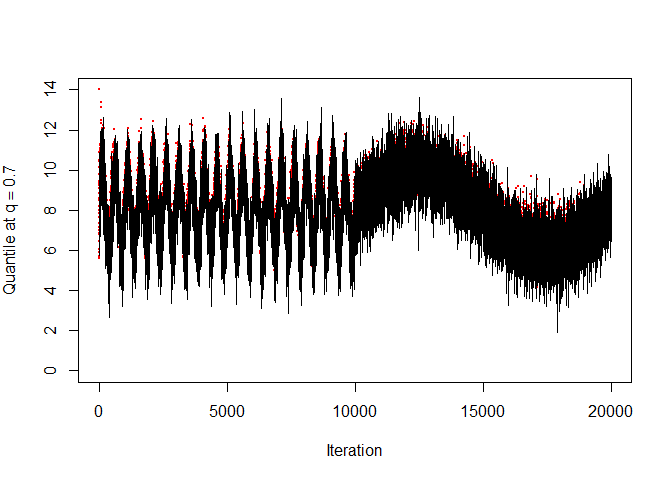
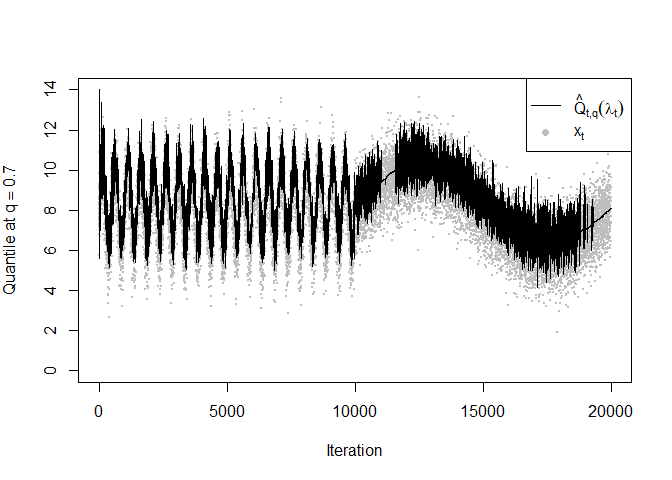
new Rmd preview

diff --git a/3rd_session.md b/3rd_session.md
@@ -1,4 +1,4 @@
-Replication of Hammer et al. (2023)
+Online POT Model
 ================
 David Baptista
 
@@ -16,17 +16,11 @@ include = FALSE runs the chunk and hides both code and output.
 
 <!-- comment -->
 
-The purpose of this document is to replicate both synthetic experiments
-from Hammer et al. ([2023](#ref-rue2023oracle)).
-
-``` r
-library (dplyr)
-```
-
-``` r
-rm (list = ls())
-set.seed (1234)
-```
+The main purpose of this document is to replicate both synthetic
+experiments presented in Hammer et al. ([2023](#ref-rue2023oracle)). The
+second part aims to use the findings from these experiments to
+investigate how the methodology can be adapted for the continuous
+tracking of extreme quantiles.
 
 # Support Functions
 
@@ -47,17 +41,17 @@ D2 <- function (q_prob, q_hat) {
     return((1 - q_prob) * q_hat)
 }
 
-# Incremental Algorithm (returns next iteration quantile estimates for each lambda_vec value)
-DUMIQE <- function (t, x_obs, q_hat_t, lambda_vec, q_prob) {
-    if (t == 0) { # Initialization step 
-    Q_min <- 14 # I'm choosing a different value until it converges...
-    return (rep (Q_min, times = length(lambda_vec))) # L was still not defined
+# Incremental Algorithm (returns quantile estimates at iteration t for each lambda_vec value)
+DUMIQE <- function (t, x_obs, q_hat_previous, lambda_vec, q_prob) {
+    if (t == 0) { # Initialization step (Q_0)
+        Q_min <- 14 # chosen to be "outside" the data stream distribution
+        return(rep (Q_min, times = length(lambda_vec))) # L was still not defined
     } else {
         return(ifelse (
-            x_obs[t + 1] >= q_hat_t,                    # Logical vector
-            # RECALL: between 2 vectors * performs element-wise multiplication 
-            q_hat_t + lambda_vec * D1(q_prob, q_hat_t), # If TRUE
-            q_hat_t - lambda_vec * D2(q_prob, q_hat_t)  # If FALSE
+            x_obs[t + 1] >= q_hat_previous,                           # Logical vector
+            # RECALL: between 2 vectors * and + performs element-wise multiplication and addition, respectively
+            q_hat_previous + lambda_vec * D1(q_prob, q_hat_previous), # If TRUE
+            q_hat_previous - lambda_vec * D2(q_prob, q_hat_previous)  # If FALSE
         )) 
     }
 }
@@ -66,11 +60,11 @@ DUMIQE <- function (t, x_obs, q_hat_t, lambda_vec, q_prob) {
 Quantile Loss function on iteration t
 
 ``` r
-QL <- function (t, x_obs, q_hat_t, q_prob) {
+QL <- function (x_obs_t, q_hat_t, q_prob) {
     return(ifelse(
-        x_obs[t + 1] >= q_hat_t,               # Logical vector
-        (1-q_prob) * (x_obs[t + 1] - q_hat_t), # If TRUE
-        q_prob * (q_hat_t - x_obs[t + 1])      # If FALSE
+        x_obs_t >= q_hat_t,                 # Logical vector
+        (1 - q_prob) * (x_obs_t - q_hat_t), # If TRUE
+        q_prob * (q_hat_t - x_obs_t)        # If FALSE
     ))
 }
 ```
@@ -97,8 +91,7 @@ iter <- 0:(2*T - 1)
 miu    <- 8
 b      <- 2
 sigma  <- 1
-t      <- iter
-mean_t <- miu + b * sin(2 * pi * t / tau_n(t))
+mean_t <- miu + b * sin(2 * pi * iter / tau_n(iter))
 normal_stream <- rnorm(
     n = 2*T,
     mean = mean_t,
@@ -116,7 +109,7 @@ q_fig2 <- 0.7
 possible_lambdas <- exp(seq (from = -7, to = 0, by = 0.05))
 L <- length(possible_lambdas) # number of estimates per iteration 
 
-gamma_Oracle <- 1 - (0.01)^(1/1000) # 0.005 
+gamma_Oracle <- 1 - (0.01)^(1/1000) # 0.005
 ```
 
 ``` r
@@ -124,9 +117,10 @@ q_hat   <- matrix(0, nrow = 2*T, ncol = L)
 QL_hat  <- matrix(0, nrow = 2*T, ncol = L)
 EQL_hat <- matrix(0, nrow = 2*T, ncol = L)
 
-oracle_lambdas         <- numeric(2*T)
-oracle_quantiles       <- numeric(2*T)
-oracle_QL              <- numeric(2*T)
+oracle_lambdas   <- numeric(2*T)
+oracle_quantiles <- numeric(2*T) # Oracle Quantile Estimates
+oracle_QL        <- numeric(2*T)
+oracle_EQL       <- numeric(2*T)
 
 for (t in iter) {
     # Quantiles estimates on iteration t for each value in possible_lambdas 
@@ -138,7 +132,7 @@ for (t in iter) {
         q_fig2
     )
 
-    QL_hat[t + 1, ] <- QL(t, normal_stream, q_hat[t + 1, ], q_fig2)
+    QL_hat[t + 1, ] <- QL(normal_stream[t + 1], q_hat[t + 1, ], q_fig2)
 
     # Expected Quantile Loss (EQL) function on iteration t. It is based on the exponentially weighted moving average.
     # It was previously defined as a function, but the node stack overflow error was thrown given it was defined recursively (so, e.g., it was evaluating all the previous steps creating very deep stack call)
@@ -154,7 +148,8 @@ for (t in iter) {
     # The Oracle approach stores the lambda value with the minimum estimated EQL
     oracle_lambdas [t + 1]  <- possible_lambdas[index]
     oracle_quantiles[t + 1] <- q_hat[t + 1, index]
-    oracle_QL [t + 1]       <- QL_hat[t + 1, index]
+    oracle_QL[t + 1]        <- QL_hat[t + 1, index]
+    oracle_EQL[t + 1]       <- EQL_hat[t + 1, index]
 }
 ```
 
@@ -162,86 +157,64 @@ for (t in iter) {
 
 Tracking the q = 0.7 quantile using the Oracle approach.
 
-In the upper left panel, we see that quantile loss quickly decreases and
-then stabilizes. The initial value of the quantile tracking algorithm is
-outside the data stream distribution. Therefore, in the initial phase,
-the quantile loss is high and a high value of $\lambda$ (update size) is
-used for the tracking algorithm to quickly get within the data stream
-distribution. When the quantile tracking algorithm is within the data
-stream distribution, a smaller $\lambda$ is optimal and the value of
-$\lambda$ is reduced. The expected quantile loss is reduced accordingly.
-
-Estimated QL in every iteration.
+<!-- 
+In the upper left panel, we see that quantile loss quickly decreases and then stabilizes. The initial value of the quantile tracking algorithm is outside the data stream distribution. Therefore, in the initial phase, the quantile loss is high and a high value of $\lambda$ (update size) is used for the tracking algorithm to quickly get within the data stream distribution. When the quantile tracking algorithm is within the data stream distribution, a smaller $\lambda$ is optimal and the value of $\lambda$ is reduced. The expected quantile loss is reduced accordingly.
+ -->
 
 ``` r
 plot(
     x = iter,
-    y = oracle_QL,
+    y = oracle_EQL, # oracle_EQL, oracle_QL
     type = "l", # Line Plot
-    ylim = c(0,1),
+    ylim = c(0.00,1),
     xlab = "Iteration",
-    ylab = "QL"
+    ylab = "Expected Quantile Loss (EQL)"
 )
 ```
 
-![](3rd_session_files/figure-gfm/Estimated%20QL%20by%20iteration%20graph-1.png)<!-- -->
+![](3rd_session_files/figure-gfm/Estimated%20EQL%20by%20iteration%20graph-1.png)<!-- -->
 
-Resulting recursive updating of $\lambda$. The symbol
-$\lambda_{\text{opt}}$ refers to the value resulting in the minimal
-estimated QL. The gray lines refer to theoretically optimal values of
-$\lambda$.
-
-The black lines in the top right panel show the optimal value of
-$\lambda$ for the data stream dynamics before and after the concept
-change at iteration 10 000. We see that a larger step size is needed to
-efficiently track rapid variations. We further see that the Oracle
-approach uses step lengths close to the optimal step lengths.
-
-Como calcular estes theoretically optimal values? Compute horizontal
-lines, is that it, or?
+How can the theoretically optimal value of $\lambda$, denoted by
+$\lambda_{\text{Theoretical}}$, be computed? <!-- 
+Optimal (oracle) value of $\lambda$ for the data stream dynamics before and after the concept change at iteration 10 000. We see that a larger $\lambda$ is needed to efficiently track rapid variations. We further see that the Oracle approach uses $\lambda$ close to the optimal theoretical $\lambda$. 
+-->
 
 ``` r
 plot(
     x = iter,
     y = oracle_lambdas,
     type = "l", # Line Plot
-    ylim = c(0,0.10),
+    ylim = c(0,0.50),
     xlab = "Iteration",
     ylab = expression(lambda)
 )
 
-# Como calcular estes theoretically optimal values? Compute horizontal lines, is that it, or?
-# they are related with how the stream is generated: 1/tau1 and 1/tau2? or something related with the average mean between those times?
-theoretical_lambdas <- c(rep(1/tau1, times = T), rep(1/tau2, times = T))
+# ALERT: They're not computed this way!
+theoretical_lambdas <- c(rep(mean(oracle_lambdas[1:T]), times = T), rep(mean(oracle_lambdas[(T+1):(2*T)]), times = T))
 
 lines(
     x = iter,
     y = theoretical_lambdas,
-    col = "grey", # Light Grey (or Gray?)
-    lty = 1 # Should be the same line type as the other (only the colour should change)
+    col = "green"
 )
 
 legend(
     "topright",
-    legend = c(expression(lambda[opt]), expression(lambda[theoretical])),
-    col = c("black", "grey"),
-    lty = c(1, 1)#,
-    #cex = 1.5
+    legend = c(expression(lambda[Oracle]), expression(lambda[Theoretical])),
+    col = c("black", "green"),
+    lty = c(1, 1)
 )
 ```
 
 ![](3rd_session_files/figure-gfm/Recursive%20Lambda%20Updating%20graph-1.png)<!-- -->
 
-Resulting tracking. The gray dots represent the normal data stream in
-and the black line is tracking.
-
 ``` r
 plot(
     x = iter,
-    y = oracle_quantiles, # Estimated Quantiles...
-    type = "p", # Points Plot
+    y = normal_stream,
+    type = "p", # Line Plot
     pch = 16, cex = 0.3,
-    col = "red",  
+    col = "grey",     
     ylim = c(0,14),
     xlab = "Iteration",
     ylab = expression("Quantile at " ~ q == 0.7)
@@ -249,9 +222,17 @@ plot(
 
 lines(
     x = iter,
-    y = normal_stream,
+    y = oracle_quantiles, # Estimated Quantiles...
     col = "black",
     lwd = 1
+)
+
+legend(
+    "topright",
+    legend = c(expression(hat(Q)[t * "," * q](lambda[t])), expression(x[t])),
+    col = c("black", "grey"),
+    lty = c(1, NA),
+    pch = c(NA, 16)
 )
 ```
 
@@ -261,7 +242,48 @@ lines(
 
 <!-- ## _HIL_ Approach -->
 
+# Streaming POT
+
+Recall from Carvalho et al. ([2026](#ref-deCarvalho2026_handbook)) that
+the maximum of an i.i.d. sample from a Student’s *t*-distribution with
+$\nu > 0$ degrees of freedom belongs to the *max-domain of attraction*
+$\mathcal{D}_{1/\nu}$ (Fréchet – Type II).
+<!-- O Hill estimator só é usado com Type II distributions. In those cases, $\xi$ is also known as the tail index... -->
+
+``` r
+N <- 1000
+t_data <- rt(N, df = 1)
+# t_data <- rcauchy(N, location = 0, scale = 1)
+
+# There's also the rgpd command from the 'evd' package to generate directly data from a GP model...
+# f(n/k) is known for the student-t, right? just use its density function, right?
+```
+
+<!-- 
+It makes sense to me that the first thing to do is to fit a GP model and find a first level of a suitable threshold, I guess. Only then can I use stochastic approximation (online stochastic gradient descent algorithm) to continuously update $\xi$ and $\sigma_u$, right? I should have an initial estimate for them. Or should I use a rolling window Hill estimator (for $\xi$)?
+&#10;Instead of using Rue's method to keep track of the quantiles, one can apply the quantile(df = df, prob = ) function to every entry of the u_track vector to see what's the current sample quantile estimate...
+-->
+
+<!-- 
+See what is the numerical algorithm behind the 'gpd.fit' function from the 'ismev' R package.
+-->
+
+<!-- 
+gpd.fitrange and mrl.plot commands
+-->
+
+<!-- 
+For stationary models four plots are produced; a probability plot, a quantile plot, a return level plot and a histogram of data with fitted density. For non-stationary models two plots are produced; a residual probability plot and a residual quantile plot.
+-->
+
 <div id="refs" class="references csl-bib-body hanging-indent">
+
+<div id="ref-deCarvalho2026_handbook" class="csl-entry">
+
+Carvalho, Miguel de, Raphaël Huser, Philippe Naveau, and Brian J. Reich.
+2026. *Handbook of Statistics of Extremes*. Chapman & Hall/CRC.
+
+</div>
 
 <div id="ref-rue2023oracle" class="csl-entry">
 
